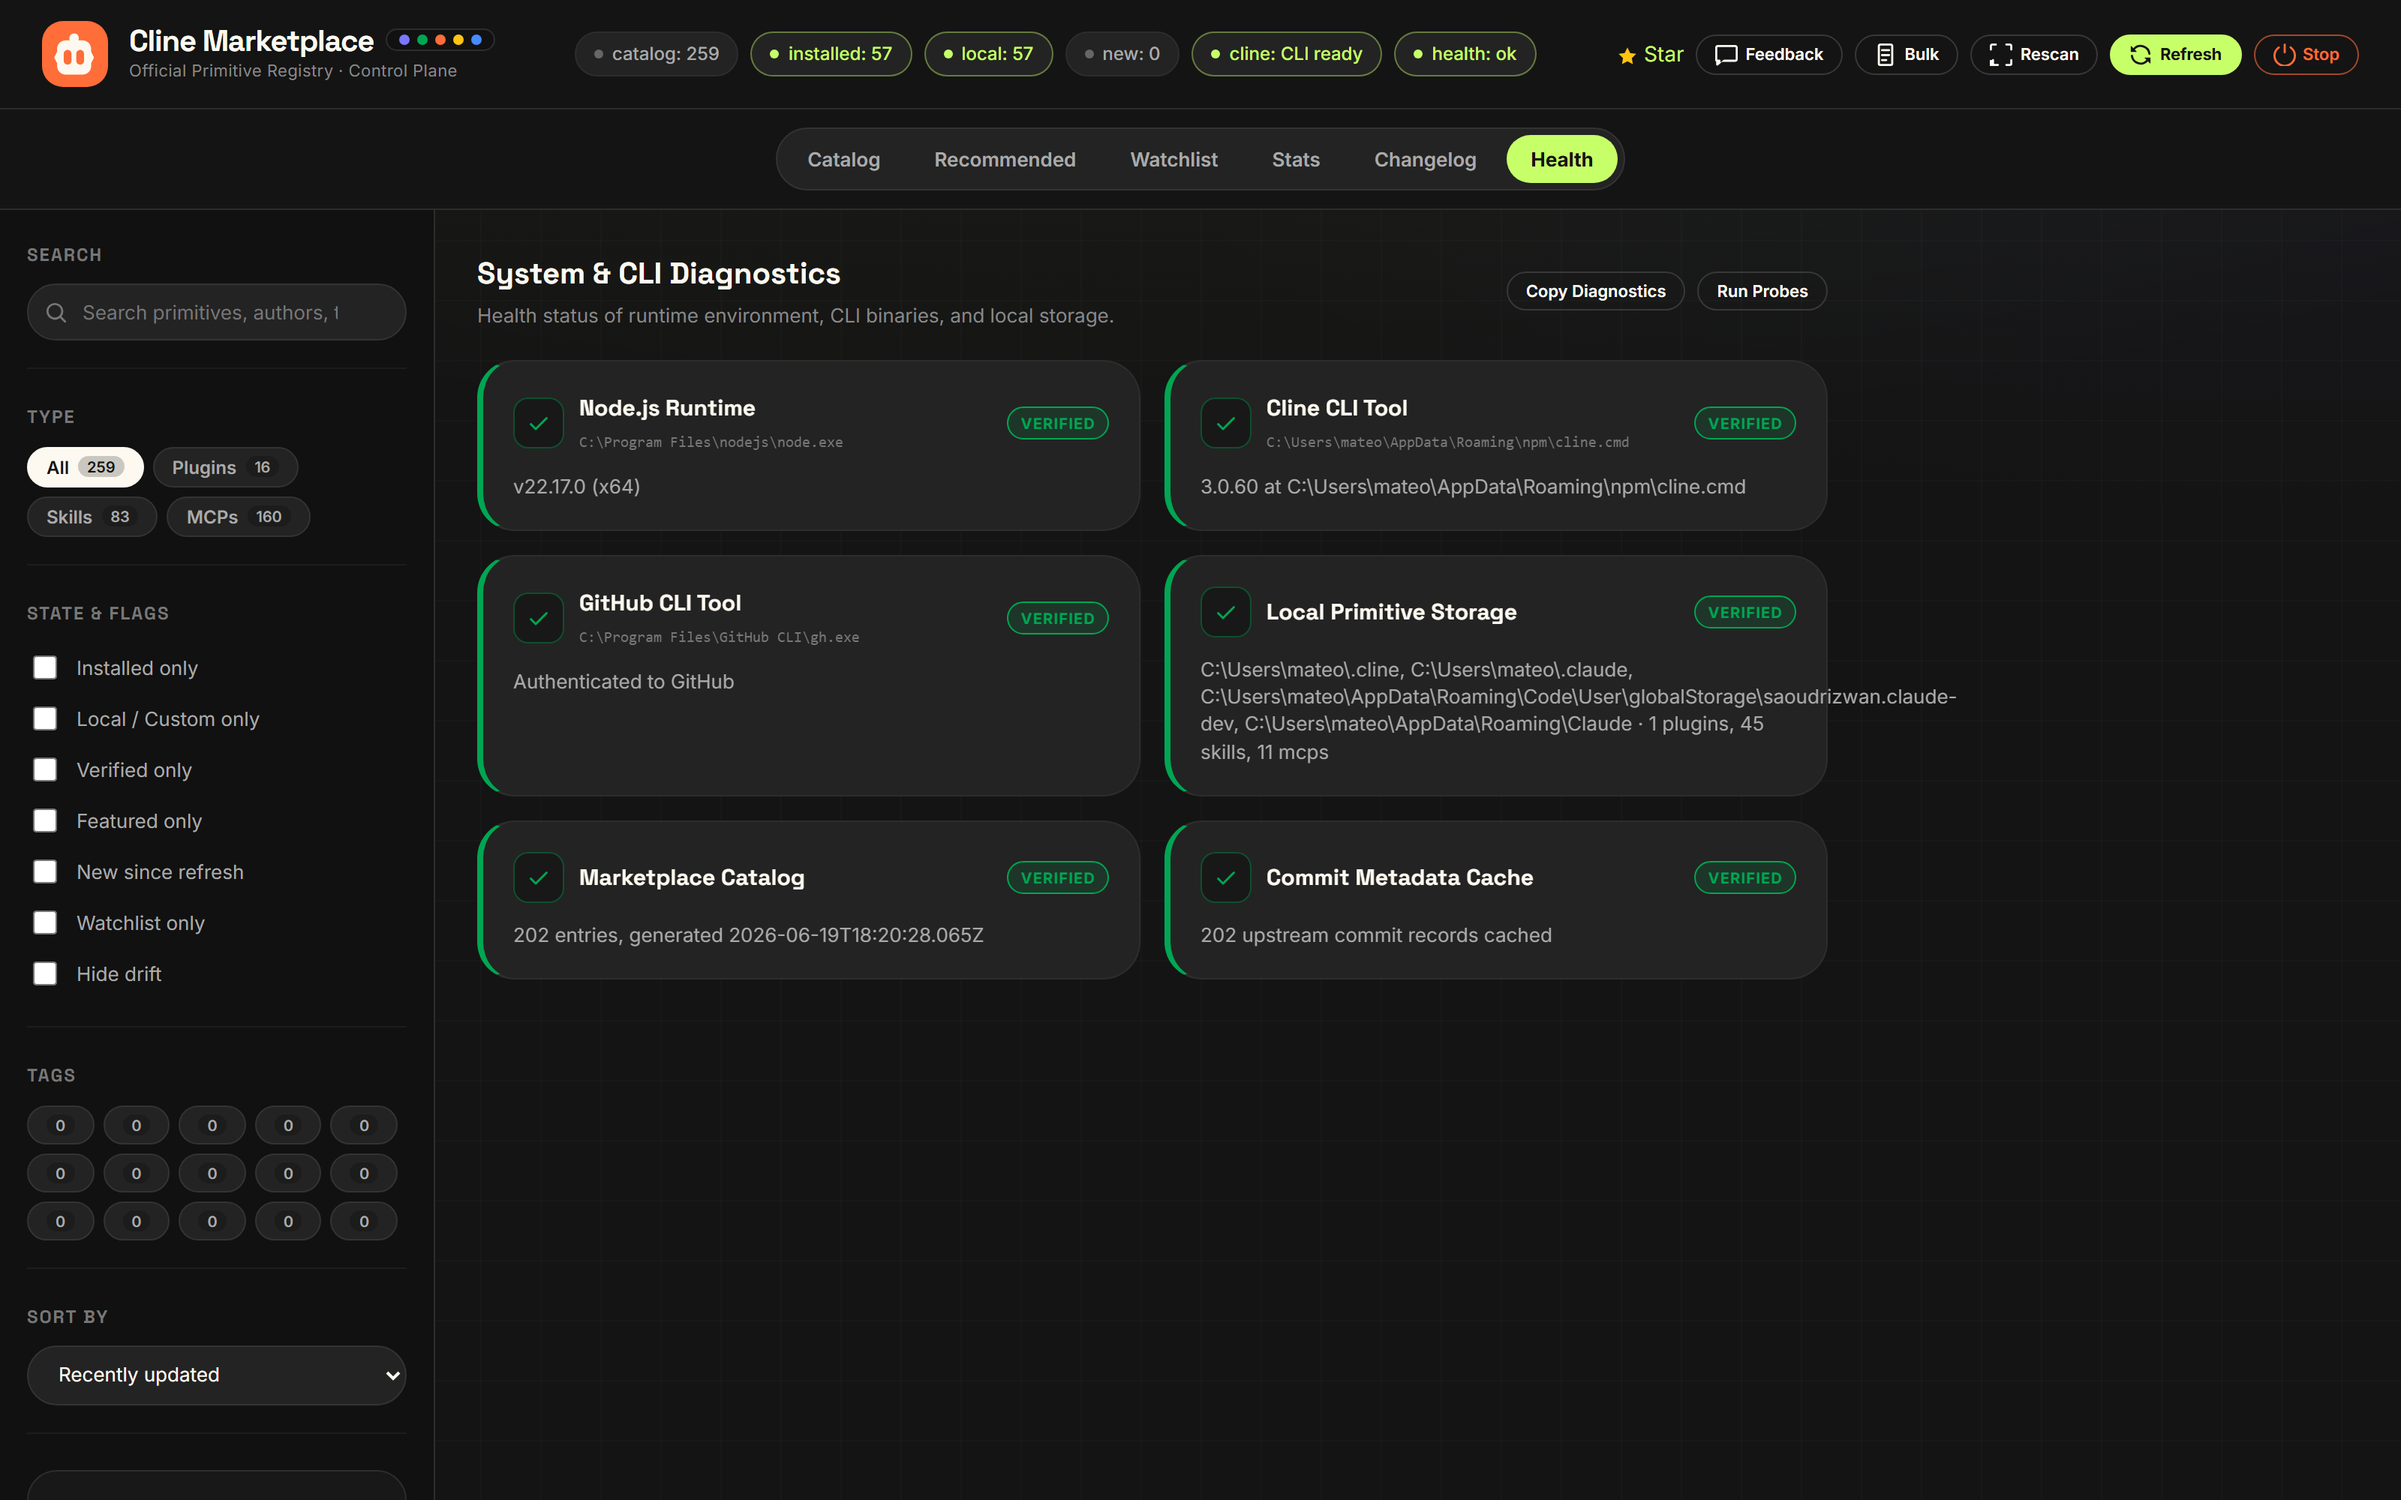
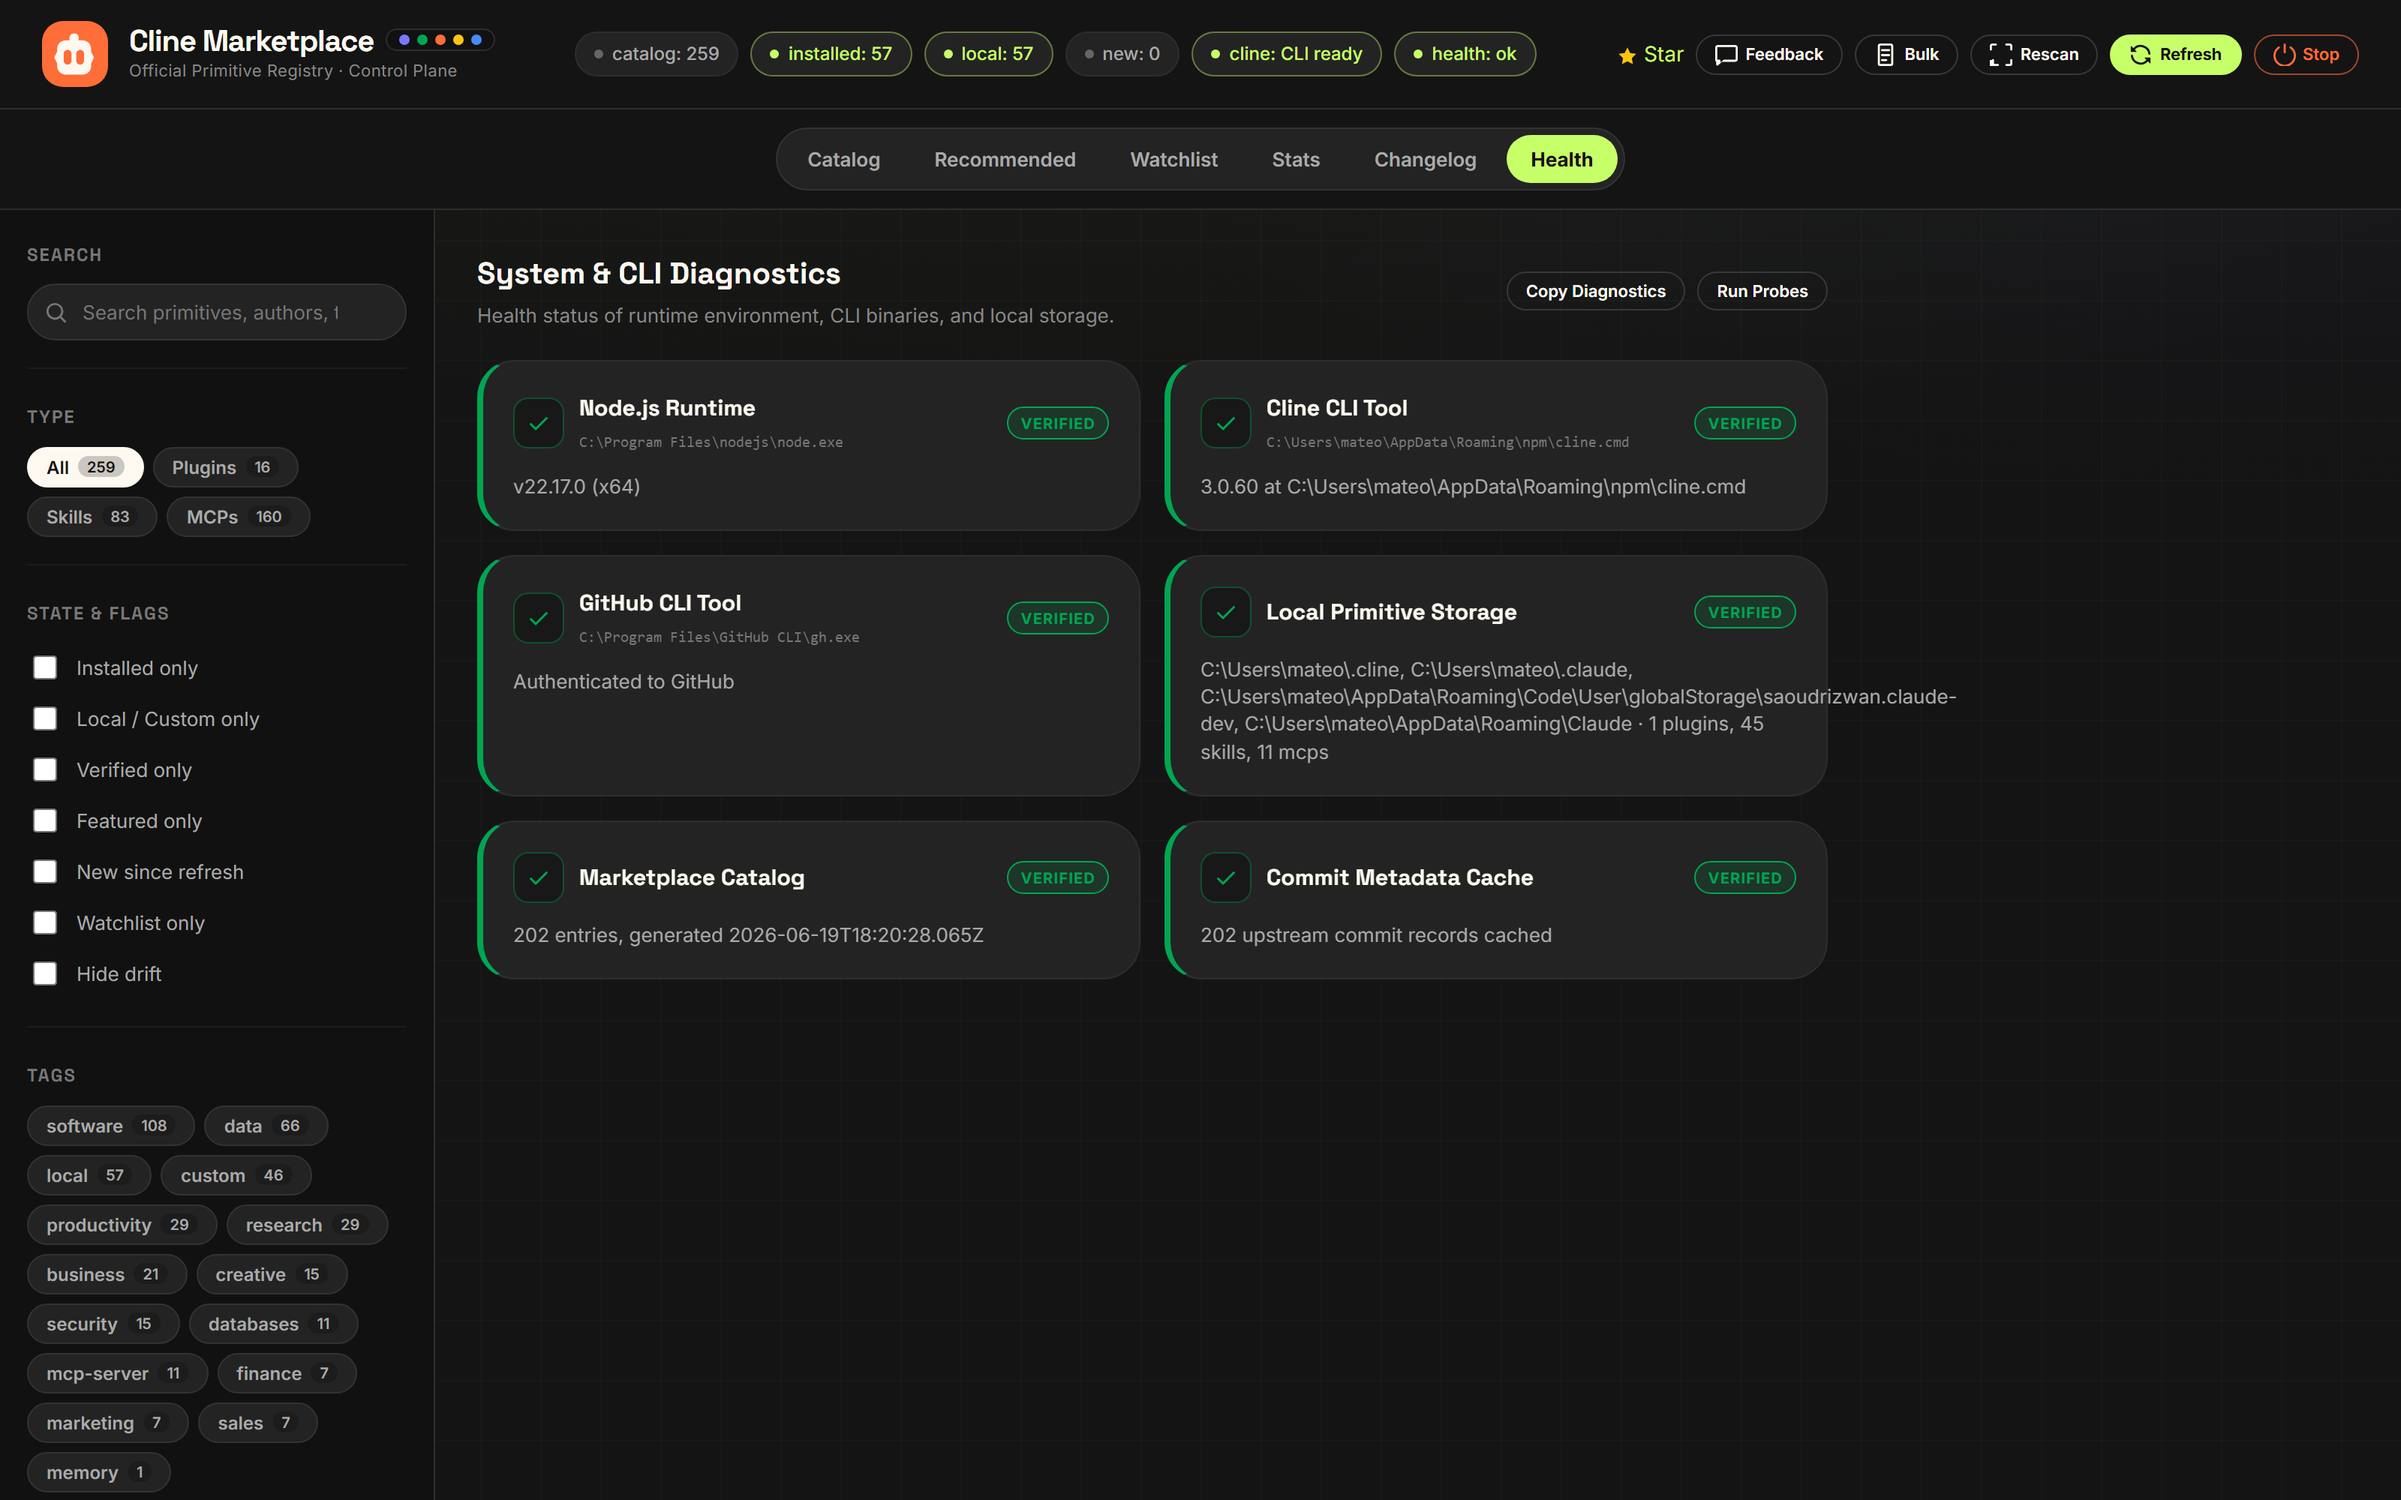
fix(api): mount /api/stats, /api/changelog, /api/export, and fix tag filter structure

Changed region(s): [[0.0, 0.744, 0.1562, 1.0]]

diff --git a/lib/routes.js b/lib/routes.js
@@ -124,12 +124,21 @@ export function createApiRouter({ root, dataDir, CATALOG_PATH, PREV_CATALOG_PATH
     }
 
     const allEntries = [...localEntries, ...marketEntries];
-    const tags = new Set();
+    const tagCounts = new Map();
     for (const e of allEntries) {
       if (Array.isArray(e.tags)) {
-        for (const t of e.tags) if (t) tags.add(t);
+        for (const t of e.tags) {
+          if (t && typeof t === "string") {
+            const clean = t.trim();
+            if (clean) tagCounts.set(clean, (tagCounts.get(clean) || 0) + 1);
+          }
+        }
       }
     }
+
+    const tagList = Array.from(tagCounts.entries())
+      .sort((a, b) => b[1] - a[1] || a[0].localeCompare(b[0]))
+      .map(([id, count]) => ({ id, label: id, count }));
 
     res.json({
       generatedAt: cat.generatedAt || new Date().toISOString(),
@@ -142,7 +151,7 @@ export function createApiRouter({ root, dataDir, CATALOG_PATH, PREV_CATALOG_PATH
         skills: allEntries.filter((e) => e.type === "skill").length,
         mcps: allEntries.filter((e) => e.type === "mcp").length,
       },
-      tags: Array.from(tags).sort(),
+      tags: tagList,
       entries: allEntries,
     });
   });
@@ -522,6 +531,133 @@ export function createApiRouter({ root, dataDir, CATALOG_PATH, PREV_CATALOG_PATH
     } catch (err) {
       res.status(500).json({ ok: false, error: err.message });
     }
+  });
+
+  // ---- Stats & Analytics --------------------------------------------------
+  router.get("/stats", (req, res) => {
+    const wsDir = req.query.cwd ? sanitizeWorkspacePath(String(req.query.cwd)) : null;
+    const probe = fsProbe(wsDir);
+    const cat = loadCatalog() || { entries: [] };
+    const meta = readJson(META_PATH, {});
+    const installed = loadInstalled();
+
+    const byAuthor = new Map();
+    for (const e of cat.entries || []) {
+      const a = e.author?.name || "Unknown";
+      byAuthor.set(a, (byAuthor.get(a) || 0) + 1);
+    }
+    const topAuthors = [...byAuthor.entries()]
+      .sort((a, b) => b[1] - a[1])
+      .slice(0, 10)
+      .map(([name, count]) => ({ name, count }));
+
+    const tagCounts = new Map();
+    for (const e of cat.entries || []) {
+      if (Array.isArray(e.tags)) {
+        for (const t of e.tags) {
+          if (t && typeof t === "string") {
+            tagCounts.set(t, (tagCounts.get(t) || 0) + 1);
+          }
+        }
+      }
+    }
+    const byTag = Array.from(tagCounts.entries())
+      .map(([id, count]) => ({ id, label: id, count }))
+      .sort((a, b) => b.count - a.count);
+
+    const now = Date.now();
+    const freshness = { "<7d": 0, "7-30d": 0, "30-90d": 0, "90-365d": 0, ">1y": 0, unknown: 0 };
+    for (const e of cat.entries || []) {
+      const m = meta[`${e.type}:${e.id}`];
+      if (!m || !m.committedAt) freshness.unknown++;
+      else {
+        const age = (now - new Date(m.committedAt).getTime()) / 86400000;
+        if (age < 7) freshness["<7d"]++;
+        else if (age < 30) freshness["7-30d"]++;
+        else if (age < 90) freshness["30-90d"]++;
+        else if (age < 365) freshness["90-365d"]++;
+        else freshness[">1y"]++;
+      }
+    }
+
+    const detected = Object.values(installed.items || {}).filter((it) => it.detected);
+    const installedByType = { plugin: 0, skill: 0, mcp: 0 };
+    for (const it of detected) {
+      if (installedByType[it.type] !== undefined) installedByType[it.type]++;
+    }
+
+    res.json({
+      total: cat.counts?.total ?? cat.entries?.length ?? 0,
+      byType: cat.counts || { plugins: 0, skills: 0, mcps: 0 },
+      byTag,
+      topAuthors,
+      freshness,
+      installed: { total: detected.length, byType: installedByType },
+    });
+  });
+
+  // ---- Changelog & Diffing -------------------------------------------------
+  router.get("/changelog", (req, res) => {
+    const cur = loadCatalog();
+    const prev = readJson(PREV_CATALOG_PATH, null);
+    if (!cur || !prev) return res.json({ added: [], removed: [], updated: [] });
+    const prevMap = new Map((prev.entries || []).map((e) => [`${e.type}:${e.id}`, e]));
+    const curMap = new Map((cur.entries || []).map((e) => [`${e.type}:${e.id}`, e]));
+    const added = (cur.entries || []).filter((e) => !prevMap.has(`${e.type}:${e.id}`));
+    const removed = (prev.entries || []).filter((e) => !curMap.has(`${e.type}:${e.id}`));
+    const updated = [];
+    for (const e of cur.entries || []) {
+      const p = prevMap.get(`${e.type}:${e.id}`);
+      if (!p) continue;
+      const a = JSON.stringify({ n: p.name, t: p.tagline, d: p.description, c: p.install?.command });
+      const b = JSON.stringify({ n: e.name, t: e.tagline, d: e.description, c: e.install?.command });
+      if (a !== b) updated.push({ key: `${e.type}:${e.id}`, before: p, after: e });
+    }
+    res.json({ added, removed, updated });
+  });
+
+  // ---- Export / Import Handlers --------------------------------------------
+  router.get("/export", (req, res) => {
+    const state = loadInstalled();
+    const payload = {
+      version: "1.0.0",
+      exportedAt: new Date().toISOString(),
+      installed: Object.values(state.items || {}),
+    };
+    res.setHeader("Content-Disposition", `attachment; filename="cline-market-export-${Date.now()}.json"`);
+    res.setHeader("Content-Type", "application/json");
+    res.send(JSON.stringify(payload, null, 2));
+  });
+
+  router.post("/import", async (req, res) => {
+    const items = req.body?.installed;
+    if (!Array.isArray(items)) {
+      return res.status(400).json({ error: "Invalid import format. 'installed' array required." });
+    }
+    const state = loadInstalled();
+    let added = 0;
+    const now = new Date().toISOString();
+    for (const it of items) {
+      if (!it.type || !it.id) continue;
+      const key = `${it.type}:${it.id}`;
+      if (!state.items[key]) {
+        state.items[key] = {
+          type: it.type,
+          id: it.id,
+          scope: it.scope || "global",
+          workspace: it.workspace || null,
+          source: "import",
+          installedAt: it.installedAt || now,
+          lastSeenAt: now,
+          installCommand: it.installCommand || null,
+          detected: false,
+        };
+        added++;
+      }
+    }
+    const reconciled = reconcile(state, fsProbe());
+    await saveInstalled(reconciled);
+    res.json({ ok: true, added, total: Object.keys(reconciled.items).length });
   });
 
   router.get("/version", (req, res) => {

diff --git a/public/app.js b/public/app.js
@@ -820,14 +820,19 @@ function renderTagFilter() {
   }
 
   for (const t of tags.slice(0, 40)) {
+    const tagId = typeof t === "string" ? t : (t.id || t.label || "");
+    const tagLabel = typeof t === "string" ? t : (t.label || t.id || "");
+    const count = typeof t === "object" && t.count !== undefined ? t.count : null;
+    if (!tagId) continue;
+
     const btn = document.createElement("button");
     btn.className = "chip";
-    btn.dataset.tag = t.id;
-    btn.innerHTML = `${escapeHtml(t.label)} <span class="count">${t.count || 0}</span>`;
-    if (state.filter.tags.has(t.id)) btn.classList.add("active");
+    btn.dataset.tag = tagId;
+    btn.innerHTML = `${escapeHtml(tagLabel)} ${count !== null ? `<span class="count">${count}</span>` : ""}`;
+    if (state.filter.tags.has(tagId)) btn.classList.add("active");
     btn.addEventListener("click", () => {
-      if (state.filter.tags.has(t.id)) state.filter.tags.delete(t.id);
-      else state.filter.tags.add(t.id);
+      if (state.filter.tags.has(tagId)) state.filter.tags.delete(tagId);
+      else state.filter.tags.add(tagId);
       renderTagFilter();
       render();
     });
